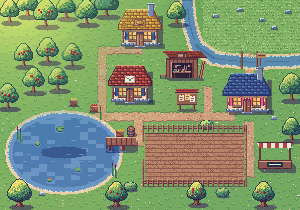
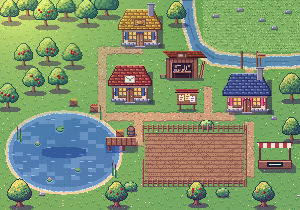
Painted villagers on the map, painted pond, painted mail street with Mo and his cart
The six map villagers are repainted as one sheet from their drawn sprites (same size and grid), so they share the
village painting's light; her sprite still takes her avatar's hair and shirt. The fishing pond and Mo's street are
single paintings traced from the drawn scenes (paintOver, shared with the village map), the street with an evening
sky behind the roofs to match the orchard. Mo has a close-up sprite in the same style as her, Rosa and Bea, and the
mail cart and parcels are painted. Plates skip the palette snap, which had turned greys blue.

Claude-Session: https://claude.ai/code/session_018EatS8EEd6jpQM1S16gyDn

diff --git a/village.js b/village.js
@@ -165,14 +165,20 @@
   // it did. The drawn map still runs underneath for its shapes: each tall thing is filled with the painting's own
   // pixels, so she walks behind houses and trees; the bridge planks, her yard, the meadow and the pies stay in code
   function buildPaintedMap(g, k, opt) {
-    const plate = ART['map-village'], open = !!V().open.meadow;
+    const a = MEADOW, keep = V().open.meadow ? [a.x - 5, a.y - 4, a.cols * 16 + 9, a.rows * 16 + 9] : null;
+    return paintOver(g, k, ART['map-village'], () => buildMapStill(g, k, { ...opt, drawn: true }), keep);
+  }
+  // draw a still with build() for its shapes, then lay the plate over it: each tall thing (depth-sorted so she can
+  // pass behind it) is filled with the plate's own pixels; anything build() adds through k.raw stays as drawn.
+  // keep: a rectangle of the drawn ground to keep (the open meadow's plot)
+  function paintOver(g, k, plate, build, keep) {
     const tmp = document.createElement('canvas'); tmp.width = W; tmp.height = H; const tg = tmp.getContext('2d');
     k.setSkin(f => () => { const to = k.g; tg.clearRect(0, 0, W, H); k.setCtx(tg); f(); k.setCtx(to); tg.globalCompositeOperation = 'source-in'; tg.drawImage(plate, 0, 0); tg.globalCompositeOperation = 'source-over'; to.drawImage(tmp, 0, 0); });
-    const pts = buildMapStill(g, k, { ...opt, drawn: true });
+    const pts = build();
     k.setSkin(null);
-    const a = MEADOW, mx = a.x - 5, my = a.y - 4, keep = open ? g.getImageData(mx, my, a.cols * 16 + 9, a.rows * 16 + 9) : null;
+    const kept = keep ? g.getImageData(...keep) : null;
     g.drawImage(plate, 0, 0);
-    if (keep) g.putImageData(keep, mx, my);
+    if (kept) g.putImageData(kept, keep[0], keep[1]);
     return pts;
   }
   function buildMapStill(g, k, opt = {}) {
@@ -356,6 +362,16 @@
     const items = [];
     const walking = her.path.length > 0, wf = walking ? [0, 1, 0, 3][Math.floor(her.walkT / .11) % 4] : 0;
     const hop = her.hop > t ? Math.round(Math.sin((her.hop - t) / 400 * Math.PI) * 4) : 0;
+    // the painted villagers (one sheet, so they share the painting's light); she takes her avatar's hair and shirt
+    if (mapArtReady) {
+      const c = sc.frame.getContext('2d'), P = (im, cx, base, flip, bob) => { const x = Math.round(cx - im.width / 2), y = Math.round(base - im.height - bob);
+        if (flip) { c.save(); c.translate(x + im.width, y); c.scale(-1, 1); c.drawImage(im, 0, 0); c.restore(); } else c.drawImage(im, x, y); };
+      const step = walking ? Math.floor(her.walkT / .14) % 2 : 0, m = mission() || {}, wave = (period, off, on) => on && ((t + off) % period) < 1100 ? Math.floor(t / 180) % 2 : 0;
+      items.push({ y: her.y, box: [Math.round(her.x) - 2, Math.round(her.y) - 20, 13, 21], draw: () => { k.shadowEll(Math.round(her.x) + 4, Math.round(her.y), 5, 1); P(herArt('map-her'), Math.round(her.x) + 4, Math.round(her.y) + 1, her.flip, step + hop); } });
+      const npc = (n, [x, y], on, off) => items.push({ y, box: [x - 3, y - 20, 15, 21], draw: () => { k.shadowEll(x + 4, y, 5, 1); P(ART['map-' + n], x + 4, y + 1, false, wave(5600, off, on)); } });
+      npc('rosa', ROSA, m.text === 'Help Rosa pick apples', 0); npc('bea', BEA, m.job === 'bakery', 3300); npc('mo', MO, m.job === 'post', 2600); npc('pip', PIP, m.job === 'market', 1700);
+      if (placeOpen('workshop')) npc('tom', TOM, m.job === 'workshop', 2100);
+    } else {
     items.push({ y: her.y, box: [Math.round(her.x) - 1, Math.round(her.y) - 20, 11, 21], draw: () => { k.shadowEll(Math.round(her.x) + 4, Math.round(her.y), 4, 1); k.drawPerson(Math.round(her.x), Math.round(her.y), look(), { walk: wf, flip: her.flip, blink: !walking && (t % 3600) < 120, bob: hop, wave: her.wave > t }); } });
     // Rosa by her orchard, in her straw hat; she waves when helping her is the next job
     items.push({ y: ROSA[1], box: [ROSA[0] - 2, ROSA[1] - 19, 13, 20], draw: () => { const [x, y] = ROSA; k.shadowEll(x + 4, y, 4, 1); k.drawPerson(x, y, ROSA_LOOK, { blink: (t % 3900) < 120, wave: (t % 5200) < 1100 && (mission() || {}).text === 'Help Rosa pick apples' });
@@ -368,6 +384,7 @@
       k.R(x + 1, y - 16, 7, 2, '#6a5a4a'); k.R(x, y - 14, 9, 1, '#4a3e34'); k.R(x + 2, y - 9, 5, 2, '#9a5a2a'); } });
     items.push({ y: PIP[1], box: [PIP[0] - 2, PIP[1] - 17, 13, 18], draw: () => { const [x, y] = PIP; k.shadowEll(x + 4, y, 4, 1); k.drawPerson(x, y, PIP_LOOK, { flip: true, blink: ((t + 1700) % 4300) < 120, wave: (t % 5600) < 1100 && (mission() || {}).job === 'market' });
       k.R(x + 2, y - 10, 5, 2, '#e8e8f0'); k.P(x + 4, y - 8, '#e8e8f0'); } });
+    }
     // things she just built pop in
     (ui.popping || []).forEach(pp => { const a = Math.min(1, (t - pp.t0) / 380), s = a < .7 ? a / .7 * 1.15 : 1.15 - (a - .7) / .3 * .15, ar = area(pp.p.area), x = ar.x + pp.p.cx * 16, y = ar.y + pp.p.cy * 16;
       items.push({ y: y + 15, draw: () => { const c = pp.c || (pp.c = itemCanvas(pp.p.item, pp.p.paint)); const w = Math.max(1, Math.round(16 * s)); sc.frame.getContext('2d').drawImage(c, Math.round(x + 8 - w / 2), Math.round(y + 16 - w), w, w); } }); });
@@ -562,6 +579,10 @@
   const CONFIRM_MS = 2000, BOB = [118, 128], BASKET = [181, 93], HAND = [166, 101];
   const goal = () => V().rounds ? 5 : 3;  // her first round is short
   function buildFishStill(g, k) {
+    if (mapArtReady) return paintOver(g, k, ART['map-pond'], () => buildDrawnPond(g, k));
+    return buildDrawnPond(g, k);
+  }
+  function buildDrawnPond(g, k) {
     const water = (x, y) => px.inEll(x, y, 118, 132, 108, 60) || (y < 90 && Math.abs(x - (54 + Math.sin(y / 18) * 7)) <= 8);
     const path = (x, y) => inRect(x, y, [222, 98, 80, 10]) || inRect(x, y, [258, 60, 9, 40]);
     px.ground(g, W, H, { water, path });
@@ -591,7 +612,7 @@
     mode = 'fish';
     F = { queue: [], i: -1, caught: 0, goal: goal(), started: Date.now(), stats: { items: 0, fast: 0, slow: 0, wrong: 0, idk: 0, rushed: 0, times: [], fastKeys: [], learned: [] }, input: '', phase: 'cast', anim: { t0: now(), kind: 'cast' }, fishPos: [40, 170], fishFlip: false };
     renderFishing(true);
-    scene = makeScene('fish', buildFishStill); addGlows(scene, [[247, 64, 7, 'rgba(255,180,90,.22)'], [266, 64, 7, 'rgba(255,180,90,.22)']]);
+    scene = makeScene('fish', buildFishStill); scene.painted = mapArtReady; addGlows(scene, [[247, 64, 7, 'rgba(255,180,90,.22)'], [266, 64, 7, 'rgba(255,180,90,.22)']]);
     scene.cam = camAround(150, 110, 230); tweenCam({ ...CAM_FULL }, 700);
     scene.after = fishOverlays;
     const fd = document.getElementById('vfade'); if (fd) { fd.classList.add('on'); requestAnimationFrame(() => setTimeout(() => fd.classList.remove('on'), 30)); }
@@ -631,7 +652,7 @@
   function renderFishing() {
     const goalN = F ? F.goal : goal(), marks = Array.from({ length: goalN }, (_, i) => `<i class="${F && i < F.caught ? 'on' : ''}"></i>`).join('');
     $root.innerHTML = `<main class="village full fishing job">
-      <div class="vstage" id="vstage"><canvas id="vcanvas"></canvas><div class="vhaze mid"></div>
+      <div class="vstage" id="vstage"><canvas id="vcanvas"></canvas><div class="vhaze ${mapArtReady ? 'off' : 'mid'}"></div>
         <div class="jsign" id="jsign"></div><div class="vtag" id="vtag"></div><div class="jbub bydot" id="jbub"></div>
       </div>
       <div class="vhud vtl"><span class="vpill vcoins" id="vcoins">${COIN()} <b>${V().coins}</b></span><div class="jorder vpanel"><b>Make 10: catch fish</b><div class="jmarks fish" id="jmarks">${marks}</div></div></div>
@@ -683,7 +704,8 @@
     if (F.phase === 'caught' && F.leap) { const e = Math.min(1, (t - F.leap.t0) / 720), x = lerp(BOB[0], BASKET[0], e), y = lerp(BOB[1], BASKET[1], e) - Math.sin(e * Math.PI) * 46; k.drawFish(Math.round(x - 4), Math.round(y - 2), F.leap.fast ? '#f7c948' : '#f2a33a', false); if (Math.random() < .5) burst(x, y, 1, F.leap.fast ? ['#fff7c2', '#ffe27a'] : ['#ffffff'], { g: 20, speed: 8, life: 400 }); if (e >= 1 && !F.leap.landed) { F.leap.landed = true; F.inBasket = (F.inBasket || 0) + 1; burst(BASKET[0], BASKET[1], 10, ['#ffe066', '#ffffff', '#f2a33a'], { up: true, spread: 2, speed: 40, life: 600 }); floatText('+1 🐟', BASKET[0], BASKET[1] - 8, F.leap.fast ? 'fast' : ''); } }
     // her, the basket, Dot
     const items = [];
-    items.push({ y: 109, draw: () => { k.shadowEll(168, 109, 4, 1); k.drawPerson(164, 109, look(), { blink: (t % 3600) < 120, bob: F.phase === 'caught' && t - F.anim.t0 < 300 ? 1 : 0 }); } });
+    items.push({ y: 109, draw: () => { const bob = F.phase === 'caught' && t - F.anim.t0 < 300 ? 1 : 0; k.shadowEll(168, 109, 4, 1);
+      if (mapArtReady) { const im = herArt('map-her'); sc.frame.getContext('2d').drawImage(im, 168 - Math.floor(im.width / 2), 110 - im.height - bob); } else k.drawPerson(164, 109, look(), { blink: (t % 3600) < 120, bob }); } });
     items.push({ y: 103, draw: () => { const n = Math.min(F.inBasket || 0, 12); k.R(176, 96, 11, 6, C.k3); k.R(176, 96, 11, 1, C.k4); k.R(176, 101, 11, 1, C.k1); for (let x = 177; x < 187; x += 2) k.P(x, 98, C.k2); for (let i = 0; i < n; i++) { const fx = 177 + (i % 4) * 2, fy = 94 - Math.floor(i / 4) * 2; k.R(fx, fy, 3, 2, i % 3 === 2 ? '#7fb8e8' : '#f2a33a'); k.P(fx, fy, '#ffd08a'); } } });
     drawDepth(sc, items);
     const dy = Math.round(Math.sin(t / 420) * 1.5); sc.dotAt = [136, 84 + dy]; k.drawDot(136, 84 + dy, t, (t % 4200) < 130);
@@ -788,12 +810,12 @@
   // orchard stays. See vault notes: base plate + kit, composed, then her, Rosa, the basket and apples as sprites.
   const ART = {}; let artReady = false, mapArtReady = false;
   (function loadMapArt() {
-    const names = ['village'];
+    const names = ['village', 'pond', 'her', 'rosa', 'bea', 'mo', 'pip', 'tom'];
     let left = names.length;
-    names.forEach(n => { const im = new Image(); im.onload = () => { ART['map-' + n] = im; if (--left === 0) { mapArtReady = true; if (scene && scene.kind === 'map') { scene.painted = true; scene.rebake(); const hz = document.querySelector('.vhaze'); if (hz) hz.className = 'vhaze off'; } } }; im.src = `art/map-${n}.png?v=2`; });
+    names.forEach(n => { const im = new Image(); im.onload = () => { ART['map-' + n] = im; if (--left === 0) { mapArtReady = true; if (scene && (scene.kind === 'map' || scene.kind === 'fish')) { scene.painted = true; scene.rebake(); const hz = document.querySelector('.vhaze'); if (hz) hz.className = 'vhaze off'; } } }; im.src = `art/map-${n}.png?v=3`; });
   })();
   (function loadArt() {
-    const names = ['orchard-scene', 'her', 'rosa', 'basket', 'apple-red', 'apple-yellow', 'bakery-scene', 'bea', 'tray', 'bun', 'dot-1', 'dot-2', 'dot-3', 'dot-4', 'dot-5', 'dot-6']; let left = names.length;
+    const names = ['orchard-scene', 'her', 'rosa', 'basket', 'apple-red', 'apple-yellow', 'bakery-scene', 'bea', 'tray', 'bun', 'post-street', 'mo', 'cart', 'parcel', 'dot-1', 'dot-2', 'dot-3', 'dot-4', 'dot-5', 'dot-6']; let left = names.length;
     names.forEach(n => { const im = new Image(); im.onload = () => { ART[n] = im; if (--left === 0) { artReady = true; if (scene && scene.kind === 'job' && paintedJob()) { scene.painted = true; scene.rebake(); const hz = document.querySelector('.vhaze'); if (hz) hz.className = 'vhaze off'; } } }; im.src = `art/${n}.png?v=2`; });
   })();
   const paintedJob = () => !!(O && O.J.art && artReady);
@@ -805,12 +827,12 @@
     const d = g.getImageData(0, 0, c.width, c.height), p = d.data, hex = h => [1, 3, 5].map(i => parseInt(h.slice(i, i + 2), 16));
     const toRGB = s => s.startsWith('#') ? hex(s) : s.match(/\d+/g).map(Number);
     const hair = toRGB(l.hair), shirt = toRGB(l.shirt), lum = (r, g2, b) => 0.2126 * r + 0.7152 * g2 + 0.0722 * b;
-    const cls = (r, g2, b) => { const mx = Math.max(r, g2, b), mn = Math.min(r, g2, b), sat = mx ? (mx - mn) / mx : 0;
+    const cls = (r, g2, b, y) => { const mx = Math.max(r, g2, b), mn = Math.min(r, g2, b), sat = mx ? (mx - mn) / mx : 0;
       if (r > 140 && b > g2 + 15 && g2 < r - 40 && sat > 0.3) return 'shirt';             // the pink shirt (skin has less blue than green)
-      if (mx < 130 && r >= g2 && g2 >= b - 10 && sat > 0.25) return 'hair';              // the dark-brown hair
+      if (y < c.height * .7 && mx < 175 && r >= g2 && g2 >= b - 10 && sat > 0.25) return 'hair';   // the brown hair and its highlights, above her shoes
       return null; };
     const ref = { shirt: lum(...hex('#e46a9a')), hair: lum(...hex('#6b4a32')) };
-    for (let i = 0; i < p.length; i += 4) { if (p[i + 3] < 128) continue; const k = cls(p[i], p[i + 1], p[i + 2]); if (!k) continue;
+    for (let i = 0; i < p.length; i += 4) { if (p[i + 3] < 128) continue; const k = cls(p[i], p[i + 1], p[i + 2], Math.floor(i / 4 / c.width)); if (!k) continue;
       const t = k === 'shirt' ? shirt : hair, f = Math.min(1.6, lum(p[i], p[i + 1], p[i + 2]) / ref[k]);
       p[i] = Math.min(255, t[0] * f); p[i + 1] = Math.min(255, t[1] * f); p[i + 2] = Math.min(255, t[2] * f); }
     g.putImageData(d, 0, 0); herCache[key] = c; return c;
@@ -989,9 +1011,9 @@
     // the post office: Mo the mail carrier. Read the place-value discs on a package (or count on along the street) to
     // find which house it goes to. Place value, graded like practice's big-number skills.
     post: {
-      npc: 'Mo', chibi: 'mo', order: 'Mo needs help with the mail', marks: 'mail', node: 'post', mapCam: [150, 92, 96], rounds: 'postRounds', log: 'Delivering mail with Mo',
+      npc: 'Mo', chibi: 'mo', art: true, order: 'Mo needs help with the mail', marks: 'mail', node: 'post', mapCam: [150, 92, 96], rounds: 'postRounds', log: 'Delivering mail with Mo',
       skills: ['pv_build', 'pv_count'], proc: true, maxLen: 5, tagCount: 3,
-      her: [84, 144], npcAt: [158, 136], head: [166, 113], sign: [11, 81, 72, 24], dotHome: [44, 118], dotHelp: () => [146, 94],
+      her: [84, 144], get npcAt() { return artReady ? [146, 136] : [158, 136]; }, get head() { return artReady ? [154, 97] : [166, 113]; }, sign: [11, 81, 72, 24], dotHome: [44, 118], dotHelp: () => artReady ? [130, 92] : [146, 94],
       houses: [6, 64, 122], labelAt: [108, 100], labelW: 50,
       // three houses on the street: the right one and two that are easy to mix up with it (digits swapped, or one place off)
       setup(O) {
@@ -1006,9 +1028,11 @@
       label(O) { const st = O.item.steps[0]; if (O.help && O.help.vis) return O.help.vis; return O.item.skillId === 'pv_build' ? O.item.visFor(0) : st.html.replace(/<span class="slot[^"]*">(&nbsp;)?<\/span>/, '<b class="q">?</b>'); },
       deal() { return [{ who: 0, t0: now() + 200, x: -20, y: 108 }]; },
       land: () => [104, 104],
-      falling: (k, x, y) => k.package(x, y, 18, 12),
+      falling: (k, x, y) => artReady ? k.g.drawImage(ART.parcel, Math.round(x), Math.round(y)) : k.package(x, y, 18, 12),
       tags(O) { return O.houses.map((n, i) => ({ x: this.houses[i] + 22, y: 36, text: EM.fmt(n), on: true, hit: O.phase === 'right' || O.phase === 'solved' ? n === O.f.ans : false })); },
-      still(g, k) {
+      // the painted street (one painting, traced from the drawn one below, with an evening sky behind the roofs)
+      still(g, k) { return artReady ? paintOver(g, k, ART['post-street'], () => this.drawnStill(g, k)) : this.drawnStill(g, k); },
+      drawnStill(g, k) {
         px.ground(g, W, H, { path: (x, y) => y > 70 && y < 88 + Math.sin(x / 40) * 2, tall: (x, y) => y > 190 });
         this.houses.forEach((x, i) => k.house(x, 66, 44, ['red', 'blue', 'gold'][i], { chimney: i !== 1, lit: i === 1 }));
         k.house(180, 66, 44, 'red', { chimney: true });
@@ -1020,9 +1044,10 @@
         return [];
       },
       draw(k, t, O, hop) {
-        k.cart(88, 132);
-        if (O.phase !== 'pick') k.package(96 - (O.phase === 'right' ? hop : 0), 104, 18, 12);
-        k.package(118, 110, 12, 8); k.package(132, 108, 10, 9);
+        if (artReady) { k.shadowEll(118, 140, 30, 3); k.g.drawImage(ART.cart, 88, 108); if (O.phase !== 'pick') k.g.drawImage(ART.parcel, 96 - (O.phase === 'right' ? hop : 0), 104); }
+        else { k.cart(88, 132); if (O.phase !== 'pick') k.package(96 - (O.phase === 'right' ? hop : 0), 104, 18, 12); k.package(118, 110, 12, 8); k.package(132, 108, 10, 9); }
+        if (artReady) { const b = O.phase === 'right' ? hop : 0; k.shadowEll(this.her[0] + 8, this.her[1], 9, 2); k.shadowEll(this.npcAt[0] + 8, this.npcAt[1], 10, 2);
+          drawSpriteArt(herArt(), this.her[0] + 8, this.her[1] + 1 - b); drawSpriteArt(ART.mo, this.npcAt[0] + 8, this.npcAt[1] + 1 - b); return; }
         drawHer(k, t, this.her, O, hop); drawNpc(k, t, this, O, hop);
       },
     },
@@ -1401,7 +1426,7 @@
     mode = mode === 'build' ? 'build' : 'map'; scene = null; ui.arrived = false; ui.popping = []; ui.story = false; ui.busy = false; ui.dotTarget = null; ui.plankFly = null;
     renderMap();
   }
-  function startFishingScene() { scene = makeScene('fish', buildFishStill); scene.after = fishOverlays; startLoop(drawFishing); renderFishWork(); const fd = document.getElementById('vfade'); if (fd) fd.classList.remove('on'); }
+  function startFishingScene() { scene = makeScene('fish', buildFishStill); scene.painted = mapArtReady; scene.after = fishOverlays; startLoop(drawFishing); renderFishWork(); const fd = document.getElementById('vfade'); if (fd) fd.classList.remove('on'); }
 
   // ---------- taps ----------
   // Pad keys act on pointerdown (see app.js); the click that follows is ignored. Both jobs share the pad's buttons.

diff --git a/sw.js b/sw.js
@@ -1,8 +1,8 @@
 /* Ellie Math service worker: cached copy first if the network is slow, never caches a bad response, updates on the next launch. */
 const VERSION = 'ellie-math-v25';
 const JS = ['engine', 'content', 'voice', 'audio', 'manip', 'theme', 'world', 'avatar', 'pixel', 'village', 'teach', 'parent', 'scratch', 'app'].map(n => `./${n}.js?v=25`);
-const ART = ['orchard-scene', 'her', 'rosa', 'basket', 'apple-red', 'apple-yellow', 'bakery-scene', 'bea', 'tray', 'bun', 'dot-1', 'dot-2', 'dot-3', 'dot-4', 'dot-5', 'dot-6'].map(n => `./art/${n}.png?v=2`);
-const MAP = ['village'].map(n => `./art/map-${n}.png?v=2`);
+const ART = ['orchard-scene', 'her', 'rosa', 'basket', 'apple-red', 'apple-yellow', 'bakery-scene', 'bea', 'tray', 'bun', 'post-street', 'mo', 'cart', 'parcel', 'dot-1', 'dot-2', 'dot-3', 'dot-4', 'dot-5', 'dot-6'].map(n => `./art/${n}.png?v=2`);
+const MAP = ['village', 'pond', 'her', 'rosa', 'bea', 'mo', 'pip', 'tom'].map(n => `./art/map-${n}.png?v=3`);
 const FILES = ['./', './index.html', ...JS, ...ART, ...MAP, './fonts/fredoka-latin-500-normal.woff2', './fonts/fredoka-latin-600-normal.woff2', './fonts/fredoka-latin-700-normal.woff2', './manifest.webmanifest', './icon-180.png', './icon-192.png', './icon-512.png', './icon-maskable-512.png', ...['garden', 'ocean', 'space', 'classroom'].map(w => `./icon-${w}-180.png`)];
 self.addEventListener('install', e => { e.waitUntil(caches.open(VERSION).then(c => c.addAll(FILES)).then(() => self.skipWaiting())); });
 // Dot's recorded voice (~30 MB) lives in its own cache so an app update doesn't download it again; audio.js prunes old packs.
